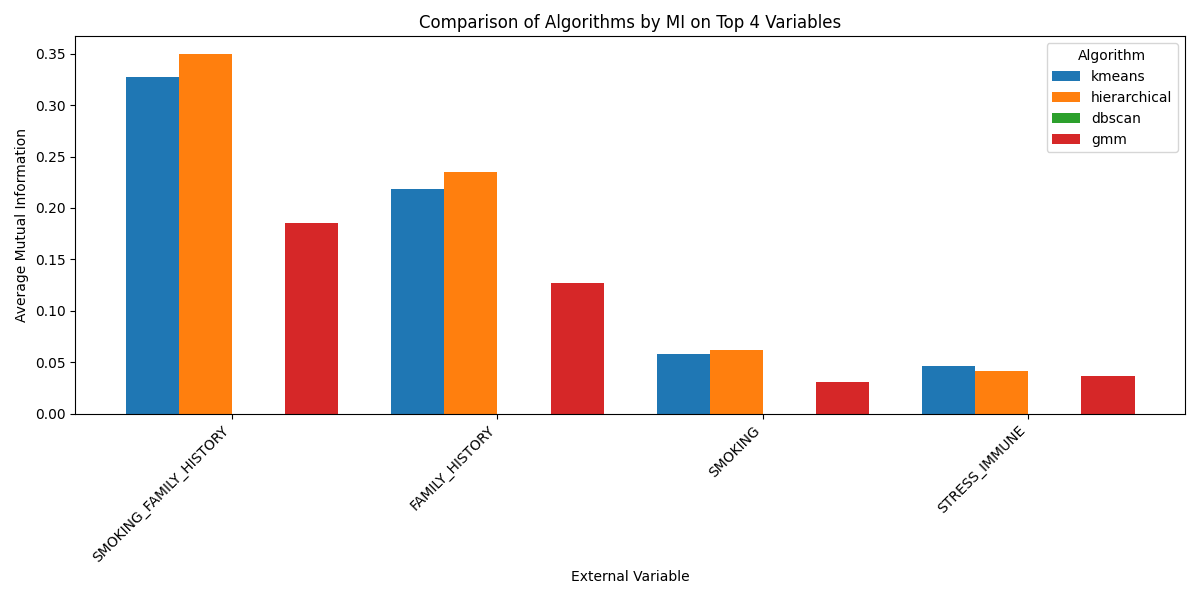
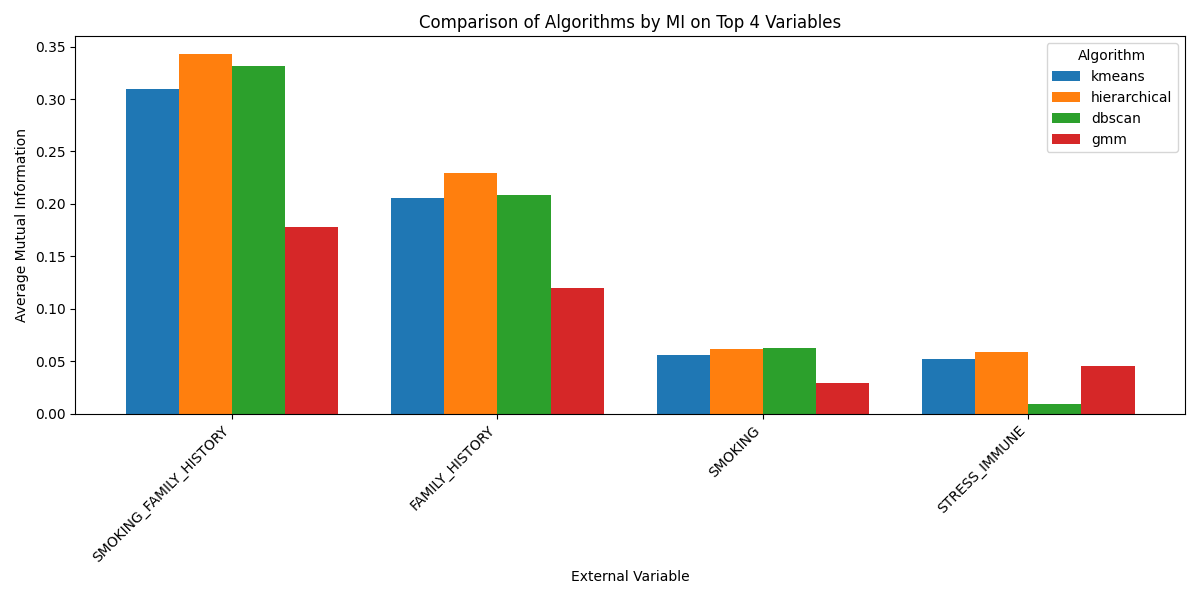
final script

diff --git a/main.py b/main.py
@@ -45,7 +45,7 @@ def main():
     # KMeans
     kmeans_results = grid_search_kmeans(X_cat, X_num_scaled, CLUSTER_RANGE, MCA_DIMENSIONS)
     best_kmeans = kmeans_results.loc[kmeans_results['silhouette_score'].idxmax()]
-    print(f"Best KMeans: {int(best_kmeans['n_components'])} components, {int(best_kmeans['n_clusters'])} clusters, cluster counts: {best_kmeans['cluster_counts']}, silhouette: {best_kmeans['silhouette_score']:.4f}")
+    print(f"Best KMeans: {int(best_kmeans['n_components'])} components, {int(best_kmeans['n_clusters'])} clusters, cluster counts: {best_kmeans['cluster_counts']}, silhouette: {best_kmeans['silhouette_score']:.4f}")    
     
     # Hierarchical
     hierarchical_results = grid_search_hierarchical(X_cat, X_num_scaled, CLUSTER_RANGE, MCA_DIMENSIONS)
@@ -78,9 +78,7 @@ def main():
 
     # Track best algorithm across CV runs
     cv = 0
-    while len(silhouette_scores['dbscan']) < NUM_CV_RUNS:
-        print(f"Cross-validation run {cv+1}/{NUM_CV_RUNS}")
-        
+    while len(silhouette_scores['dbscan']) < NUM_CV_RUNS:        
         # Randomly sample data for this CV run
         sample_indices = np.random.choice(NUM_SAMPLES, size=SAMPLE_SIZE, replace=False)
         X_cat_sample = X_cat.iloc[sample_indices]
@@ -135,7 +133,7 @@ def main():
     
     # ANOVA test
     f_statistic, p_value = compare_algorithms_anova(silhouette_scores)
-    print(f"ANOVA test: F={f_statistic:.4f}, p={p_value:.6f}")
+    print(f"ANOVA test: F={f_statistic}, p={p_value}")
     if p_value < 0.05:
         print("At least one algorithm is significantly different from the others.")
     else:
@@ -149,7 +147,7 @@ def main():
     # Paired t-test between best two algorithms
     t_statistic, t_p_value = compare_best_algorithms_ttest(
         silhouette_scores[best_algo], silhouette_scores[second_best_algo])
-    print(f"Paired t-test ({best_algo} vs {second_best_algo}): t={t_statistic:.4f}, p={t_p_value:.6f}")
+    print(f"Paired t-test ({best_algo} vs {second_best_algo}): t={t_statistic}, p={t_p_value}")
     if t_p_value < 0.05:
         print(f"{best_algo} is significantly better than {second_best_algo}.")
     else:
@@ -169,18 +167,18 @@ def main():
     else:
         # Elbow method (only for KMeans)
         if best_algo == 'kmeans':
-            # inertia_values = []
+            inertia_values = []
             
-            # for n_clusters in CLUSTER_RANGE:
-            #     _, inertia, _ = kmeans_clustering(X_combined, n_clusters)
-            #     inertia_values.append(inertia)
+            for n_clusters in CLUSTER_RANGE:
+                _, inertia, _ = kmeans_clustering(X_combined, n_clusters)
+                inertia_values.append(inertia)
             
-            # optimal_clusters, reduction = find_optimal_clusters(inertia_values, CLUSTER_RANGE)
-            # print(f"Optimal clusters (50% reduction): {optimal_clusters}")
+            optimal_clusters, reduction = find_optimal_clusters(inertia_values, CLUSTER_RANGE)
+            print(f"Optimal clusters (50% reduction): {optimal_clusters}")
             
-            # # Save elbow plot
-            # elbow_plot = plot_elbow_method(CLUSTER_RANGE, inertia_values)
-            # elbow_plot.savefig(os.path.join(OUTPUT_DIR, 'kmeans_elbow.png'))
+            # Save elbow plot
+            elbow_plot = plot_elbow_method(CLUSTER_RANGE, inertia_values)
+            elbow_plot.savefig(os.path.join(OUTPUT_DIR, 'kmeans_elbow.png'))
             
             # Apply kmeans with optimal clusters
             labels, _, _ = kmeans_clustering(X_combined, int(best_algo_params['n_clusters']))
@@ -199,10 +197,9 @@ def main():
 
     # Use while loop instead of for loop to ensure we get enough valid runs
     cv_run = 0
-    while min([len(mi_scores[var][algo]) for var in external_vars for algo in ['kmeans', 'hierarchical', 'dbscan', 'gmm']], default=0) < NUM_CV_RUNS and cv_run < NUM_CV_RUNS * 3:
+    while min([len(mi_scores[var][algo]) for var in external_vars for algo in ['kmeans', 'hierarchical', 'dbscan', 'gmm']], default=0) < NUM_CV_RUNS:
         cv_run += 1
-        print(f"MI Cross-validation run {cv_run}/{NUM_CV_RUNS*3}")
-        
+
         # Sample data for this run
         idx = np.random.choice(NUM_SAMPLES, SAMPLE_SIZE, replace=False)
         Xc, Xn = X_cat.iloc[idx], X_num_scaled.iloc[idx]
@@ -219,14 +216,13 @@ def main():
             
             # Get cluster labels based on algorithm
             if name == 'dbscan':
-                labels, ncl, _ = dbscan_clustering(Xalg, float(params['eps']), int(params['min_samples']))
+                labels, ncl, _ = dbscan_clustering(Xalg, 1, int(params['min_samples']))
                 
                 # Check for sufficient non-noise points and multiple clusters
                 non_noise_mask = labels != -1
                 non_noise_percentage = np.sum(non_noise_mask) / len(non_noise_mask)
                 
                 if non_noise_percentage < 0.9 or ncl <= 1:
-                    print(f"  Skipping {name} (noise: {(1-non_noise_percentage)*100:.1f}%, clusters: {ncl})")
                     continue
                     
                 # Filter to only non-noise points
@@ -249,7 +245,10 @@ def main():
                 mi = calculate_mutual_info(labels, filtered_sample[var].values)
                 mi_scores[var][name].append(mi)
             
-            print(f"  Added run for {name} (now at {len(mi_scores[external_vars[0]][name])}/{NUM_CV_RUNS})")
+    # Ensure we only keep the first NUM_CV_RUNS for each variable and algorithm
+    for var in external_vars:
+        for algo in ['kmeans', 'hierarchical', 'dbscan', 'gmm']:
+            mi_scores[var][algo] = mi_scores[var][algo][:NUM_CV_RUNS]
 
     # Identify top 4 variables by max avg MI
     avg_max = {
@@ -271,7 +270,7 @@ def main():
         
         # Run ANOVA test
         f_mi, p_mi = compare_algorithms_anova(scores)
-        print(f"ANOVA MI: F={f_mi:.4f}, p={p_mi:.6f}")
+        print(f"ANOVA MI: F={f_mi}, p={p_mi}")
         
         if p_mi < 0.05:
             # Find top 2 algorithms
@@ -281,11 +280,11 @@ def main():
             
             # Run t-test between top 2
             t_mi, p_tmi = compare_best_algorithms_ttest(scores[a1], scores[a2])
-            print(f"Top algos for {var}: {a1} ({means[a1]:.4f}), {a2} ({means[a2]:.4f})")
-            print(f"Paired t-test MI ({a1} vs {a2}): t={t_mi:.4f}, p={p_tmi:.6f}")
+            print(f"Top algos for {var}: {a1} ({means[a1]:.4f}), {a2} ({means[a2]:.4f})") # Keep MI means rounded for readability
+            print(f"Paired t-test MI ({a1} vs {a2}): t={t_mi}, p={p_tmi}")
             
             # Announce the best
-            print(f"➡  Best algorithm for {var} by MI is {a1} (avg MI={means[a1]:.4f})")
+            print(f"➡  Best algorithm for {var} by MI is {a1} (avg MI={means[a1]:.4f})") # Keep MI means rounded for readability
         else:
             print("No significant MI differences; skipping t-test.")
 
@@ -349,19 +348,8 @@ def main():
     for algo, score in anomaly_mi.items():
         print(f"  {algo}: {score:.4f}")
     
-    # 8. Create t-SNE visualization
-    print("Creating visualizations...")
-    X_tsne = apply_tsne(X_combined)
-
-    # Save cluster visualization
-    tsne_plot = visualize_tsne_clusters(X_tsne, labels, f"Best Algorithm ({best_algo}) Clusters")
-    tsne_plot.savefig(os.path.join(OUTPUT_DIR, f'{best_algo}_clusters.png'))
     
-    # Save true vs predicted visualization
-    comparison_plot = plot_true_vs_predicted(X_tsne, y, labels)
-    comparison_plot.savefig(os.path.join(OUTPUT_DIR, 'true_vs_predicted.png'))
-    
-    # 9. Dive deeper into clusters to understand medical implications
+    # 8. Dive deeper into clusters to understand medical implications
     print("\nAnalyzing cluster characteristics...")
     
     # Get the best clustering results
@@ -473,7 +461,7 @@ def main():
     plt.tight_layout()
     plt.savefig(os.path.join(OUTPUT_DIR, 'cluster_profiles_radar.png'))
     
-    # 10. Analyze anomalies in relation to clusters and disease
+    # 9. Analyze anomalies in relation to clusters and disease
     anomaly_analysis = pd.DataFrame({
         'kmeans_anomaly': kmeans_anomalies,
         'gmm_anomaly': gmm_anomalies,
